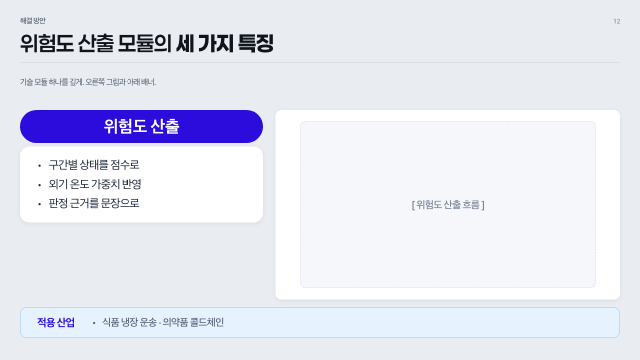
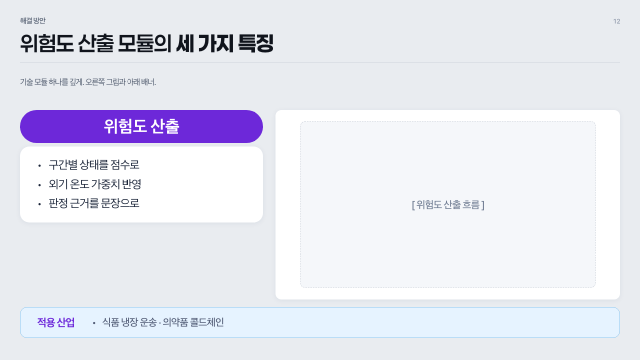
메인·보조 컬러를 보라 계열로: 메인 #6D28D9, 보조 #A78BFA

Changed region(s): [[0.0312, 0.3056, 0.4375, 0.3972], [0.0625, 0.8861, 0.125, 0.9167]]

diff --git a/docs/templates/deck.html b/docs/templates/deck.html
@@ -10,17 +10,17 @@
 @font-face{font-family:'Paperlogy 8 ExtraBold';src:local('Paperlogy 8 ExtraBold'),local('Paperlogy-8ExtraBold'),url('https://cdn.jsdelivr.net/gh/Freesentation/paperlogy@main/woff2/Paperlogy-8ExtraBold.woff2') format('woff2');font-weight:400;font-style:normal;font-display:swap}
 deck-stage:not(:defined){visibility:hidden;}
 :root{
-  --primary:#2B0CDD;--primary-2:#8B85DF;--primary-deep:#1F099F;
-  --primary-soft:#EFEEFB;--primary-softer:#F8F8FD;
+  --primary:#6D28D9;--primary-2:#A181F7;--primary-deep:#4E1D9C;
+  --primary-soft:#F2EDFE;--primary-softer:#F9F7FF;
   --accent:#00A89D;--gold:#C8A24B;--gold-light:#F2D78E;
   --success:#138A4E;--warning:#C97A1F;--danger:#C9302C;
   --bg-soft:#F5F7FA;--border:#D9DEE6;--border-strong:#B9C3D2;
-  --text:#1A2438;--title:#10141C;--body:#515B75;--banner:#E6F3FF;--banner-border:#8EC6EE;--banner-label:#2B0CDD;--banner-text:#515B75;--text-mid:#4A5568;--text-light:#8B95A7;
+  --text:#1A2438;--title:#10141C;--body:#515B75;--banner:#E6F3FF;--banner-border:#8EC6EE;--banner-label:#6D28D9;--banner-text:#515B75;--text-mid:#4A5568;--text-light:#8B95A7;
   --pad:40px;--hdr:0px;--foot:0px;--safe-bottom:44px;--page:#E9ECF0;--card-shadow:0 2px 12px rgba(20,40,80,0.07);
   --font:'Pretendard','Pretendard','Malgun Gothic','맑은 고딕','Apple SD Gothic Neo','Noto Sans KR',sans-serif;
   --font-title:'Paperlogy 6 SemiBold','Pretendard','Apple SD Gothic Neo','Malgun Gothic','맑은 고딕','Noto Sans KR',sans-serif;
   --font-title-b:'Paperlogy 8 ExtraBold','Pretendard','Apple SD Gothic Neo','Malgun Gothic','맑은 고딕','Noto Sans KR',sans-serif;
-  --cover-badge:#4533AF;
+  --cover-badge:#6C43AD;
   --kmax:1.3;
 }
 /* --k: per-slide body scale from fit_slides.mjs. Header/title/lead are fixed. */
@@ -191,7 +191,7 @@ table.rt{width:100%;border-collapse:collapse;font-size:calc(var(--fs-table) * va
 .cv .cbg{background-image:url('assets/cover-bg/cube.jpg');}
 /* 제목이 놓이는 왼쪽을 살짝 눌러 글씨가 밝은 부분에 걸쳐도 읽히게 한다 */
 .cv .scrim{position:absolute;inset:0;z-index:1;background:linear-gradient(90deg,rgba(5,3,18,.42) 0%,rgba(5,3,18,.48) 42%,rgba(5,3,18,.30) 58%,rgba(5,3,18,0) 74%);}
-.closing .cbg{background:linear-gradient(135deg,#1F099F 0%,#2B0CDD 45%,#8B85DF 100%);}
+.closing .cbg{background:linear-gradient(135deg,#4E1D9C 0%,#6D28D9 45%,#A181F7 100%);}
 /* 표지 본문 — 원본 PPTX 좌표·여백 그대로 */
 .cover .clead{position:absolute;left:61.5px;top:56px;width:530.2px;height:83.6px;font-family:'Pretendard Light','Pretendard','Apple SD Gothic Neo','Malgun Gothic','맑은 고딕','Noto Sans KR',sans-serif;font-weight:400;font-size:24px;line-height:35.47px;letter-spacing:-0.8pt;color:#E7E6E6;z-index:2;word-break:keep-all;}
 .cover .ctitle{position:absolute;left:59.4px;top:117px;width:720px;height:172.1px;font-family:'Paperlogy 7 Bold','Pretendard','Apple SD Gothic Neo','Malgun Gothic','맑은 고딕','Noto Sans KR',sans-serif;font-weight:400;font-size:64px;line-height:78.13px;letter-spacing:-1pt;color:#fff;z-index:2;word-break:keep-all;}

diff --git a/docs/design/index.html b/docs/design/index.html
@@ -458,8 +458,8 @@ tr.dirty .val input{border-color:var(--acc);color:var(--acc)}
     <section class="blk"><h2>색</h2>
       <p class="note">메인 컬러 하나에서 나머지가 계산된다. 임의 hex를 쓰지 않는다. 보조 컬러가 흰 카드 위에서 대비 3 미만이면 메인 쪽으로 섞어 어둡게 만든다.</p>
       <div class="pick">
-        <label>메인 <input type="color" id="cPrimary" value="#2B0CDD"><span class="hx" id="hxPrimary">#2B0CDD</span></label>
-        <label>보조 <input type="color" id="cSecondary" value="#CBD5E1"><span class="hx" id="hxSecondary">#CBD5E1</span></label>
+        <label>메인 <input type="color" id="cPrimary" value="#6D28D9"><span class="hx" id="hxPrimary">#6D28D9</span></label>
+        <label>보조 <input type="color" id="cSecondary" value="#A78BFA"><span class="hx" id="hxSecondary">#A78BFA</span></label>
         <button class="gbtn" id="cClear">보조 비우기</button>
         <span class="hint" id="cNote"></span>
       </div>
@@ -564,7 +564,7 @@ var DENSITY={
 };
 var DEFAULTS={
   density:'dense', k:1,
-  primary:'#2B0CDD', secondary:'#CBD5E1',
+  primary:'#6D28D9', secondary:'#A78BFA',
   h0:48,h0l:58.6,h0s:-1, h1:40,h1l:48,h1s:-1, h2:22,h2l:31.8,h2s:-0.2, b2:18,b2l:26.6,b2s:-0.8,
   eyebrow:15, stitle:42, lead:16, pgno:13,
   pad:40, safeBottom:44, bodyTop:220,

diff --git a/skills/ppt-maker/app/design-system.html b/skills/ppt-maker/app/design-system.html
@@ -458,8 +458,8 @@ tr.dirty .val input{border-color:var(--acc);color:var(--acc)}
     <section class="blk"><h2>색</h2>
       <p class="note">메인 컬러 하나에서 나머지가 계산된다. 임의 hex를 쓰지 않는다. 보조 컬러가 흰 카드 위에서 대비 3 미만이면 메인 쪽으로 섞어 어둡게 만든다.</p>
       <div class="pick">
-        <label>메인 <input type="color" id="cPrimary" value="#2B0CDD"><span class="hx" id="hxPrimary">#2B0CDD</span></label>
-        <label>보조 <input type="color" id="cSecondary" value="#CBD5E1"><span class="hx" id="hxSecondary">#CBD5E1</span></label>
+        <label>메인 <input type="color" id="cPrimary" value="#6D28D9"><span class="hx" id="hxPrimary">#6D28D9</span></label>
+        <label>보조 <input type="color" id="cSecondary" value="#A78BFA"><span class="hx" id="hxSecondary">#A78BFA</span></label>
         <button class="gbtn" id="cClear">보조 비우기</button>
         <span class="hint" id="cNote"></span>
       </div>
@@ -564,7 +564,7 @@ var DENSITY={
 };
 var DEFAULTS={
   density:'dense', k:1,
-  primary:'#2B0CDD', secondary:'#CBD5E1',
+  primary:'#6D28D9', secondary:'#A78BFA',
   h0:48,h0l:58.6,h0s:-1, h1:40,h1l:48,h1s:-1, h2:22,h2l:31.8,h2s:-0.2, b2:18,b2l:26.6,b2s:-0.8,
   eyebrow:15, stitle:42, lead:16, pgno:13,
   pad:40, safeBottom:44, bodyTop:220,
